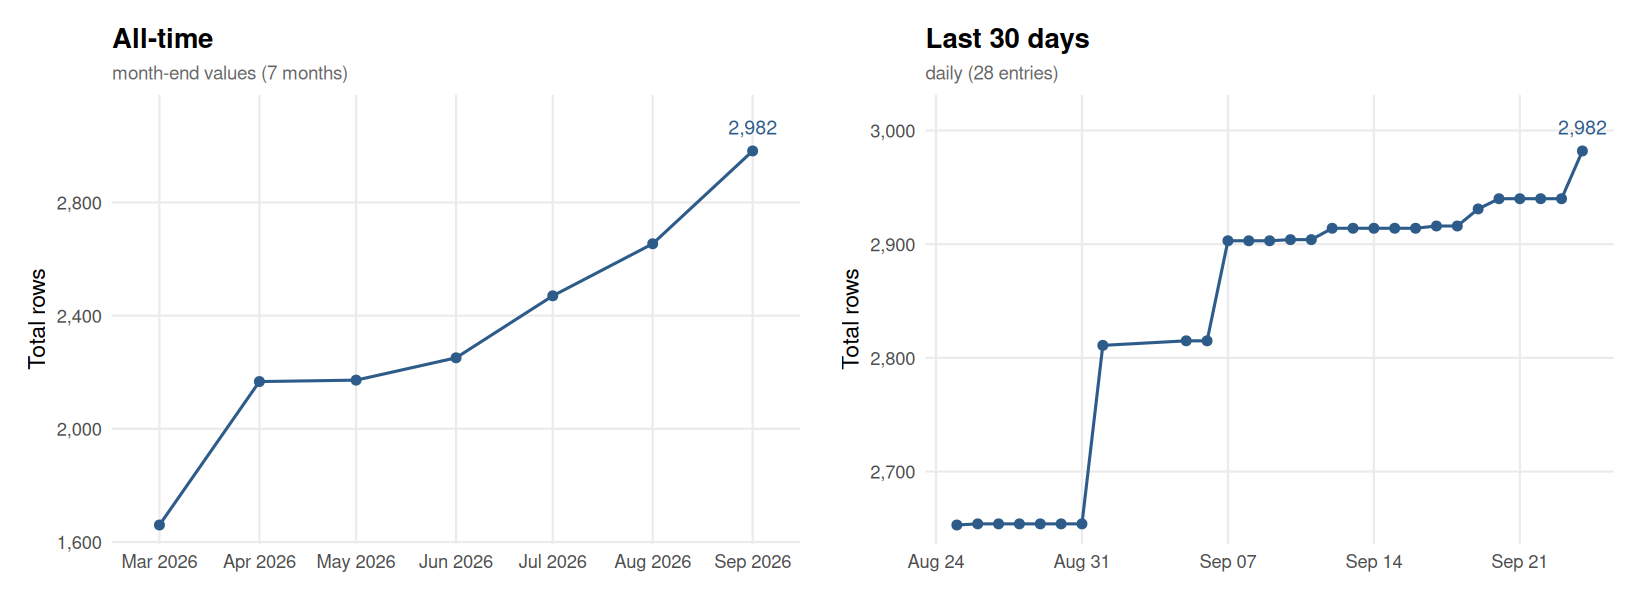
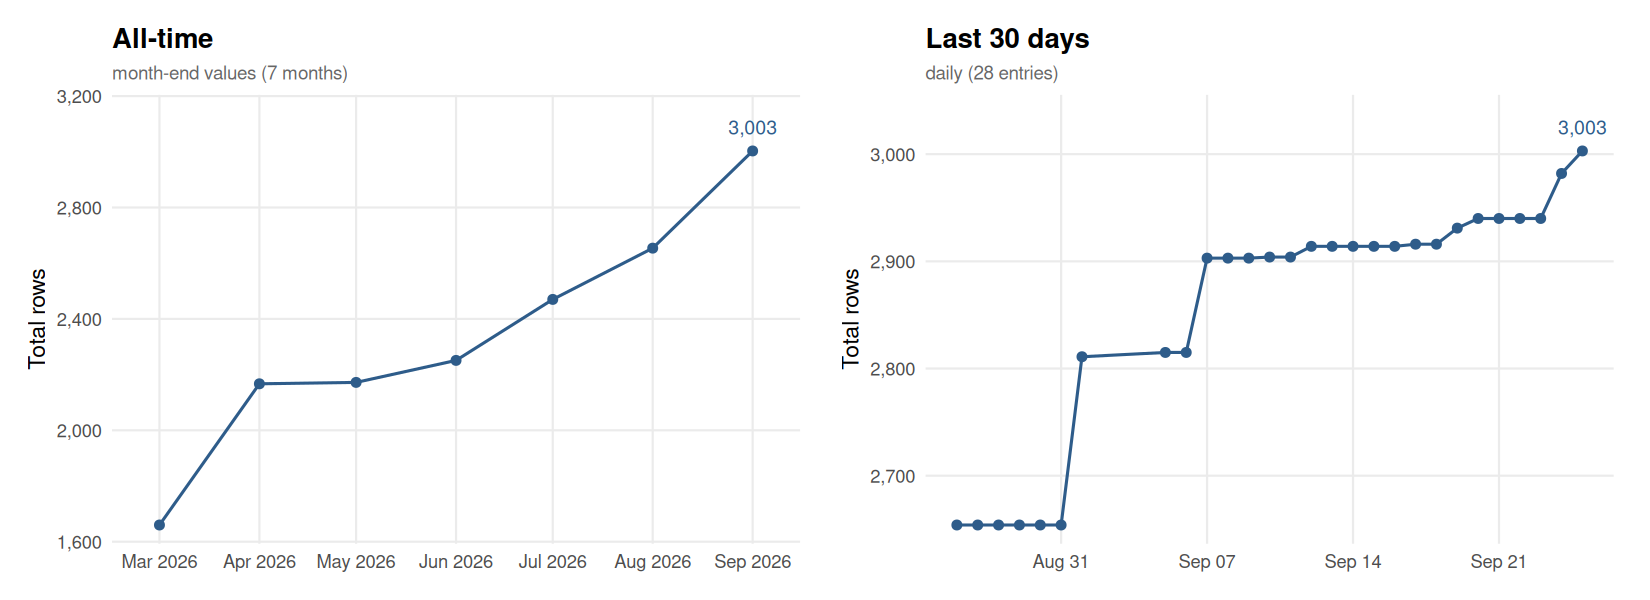
Update flora.csv [automated]

diff --git a/README.md b/README.md
@@ -438,14 +438,15 @@ For API issues:
 This chart is automatically updated after each pipeline run, showing the size of `output/flora.csv` over time.
 
 <!-- FLORA_UPDATE_LOG_START -->
-> **Latest (2026-09-24):** Total = 2,982 | Replications = 2,622 | Reproductions = 360
+> **Latest (2026-09-25):** Total = 3,003 | Replications = 2,639 | Reproductions = 364
 
 ![FLoRA dataset size over time](output/flora_history.png)
 
-<details><summary>Full history (182 entries)</summary>
+<details><summary>Full history (183 entries)</summary>
 
 | Date | Total | Replications | Reproductions |
 |------|------:|-------------:|--------------:|
+| 2026-09-25 | 3003 | 2639 | 364 |
 | 2026-09-24 | 2982 | 2622 | 360 |
 | 2026-09-23 | 2940 | 2581 | 359 |
 | 2026-09-22 | 2940 | 2581 | 359 |
